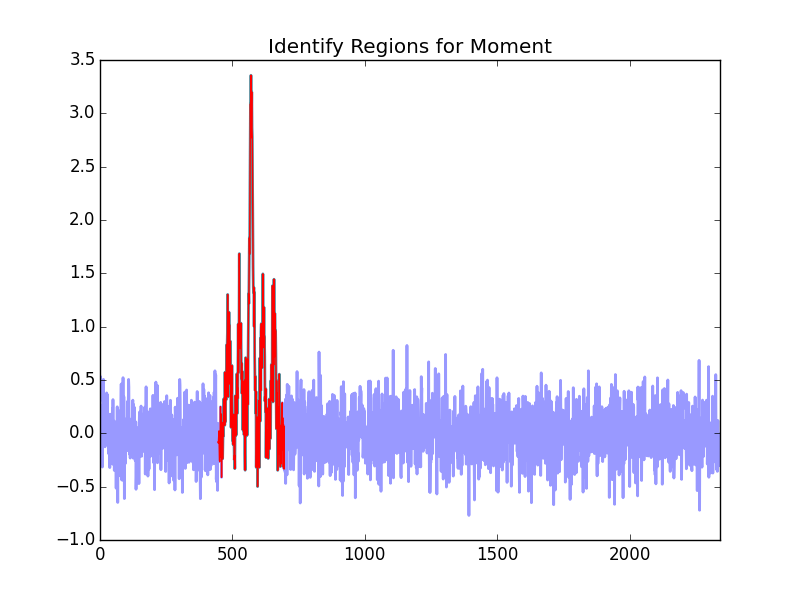
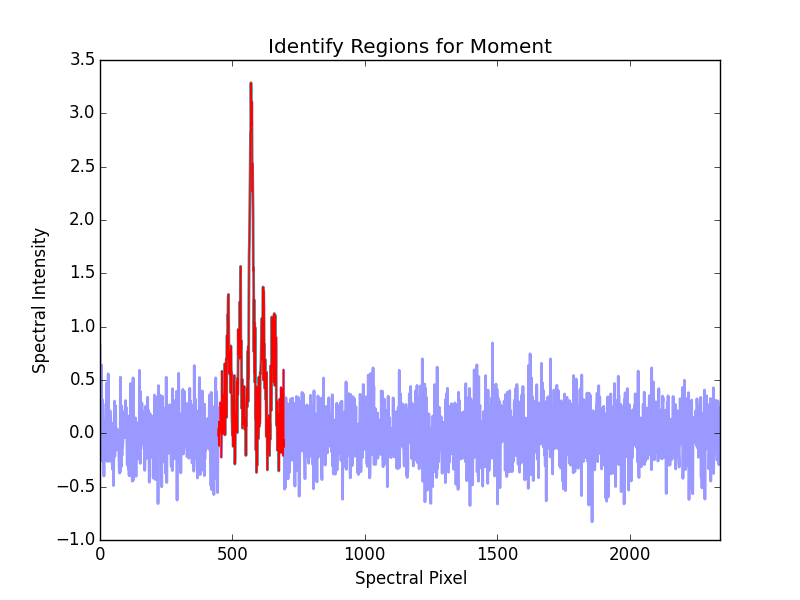
Update README with new check-plots

diff --git a/rampsclean/synthetic_spectrum.py b/rampsclean/synthetic_spectrum.py
@@ -73,6 +73,8 @@ class SyntheticSpectrum:
             plt.figure()
             plt.plot(total,color="blue",alpha=0.5,)
             plt.xlim(0,len(total))
+            plt.ylabel("Spectral Intensity")
+            plt.xlabel("Spectral Pixel")
             plt.title("Total Synthetic")
             plt.savefig(kwargs["outdir"]+"/total_synthetic.png")
         return(self.total_spectrum)

diff --git a/README.md b/README.md
@@ -11,9 +11,15 @@ Here is a synthetic spectrum simulating an NH3 (1-1) line profile as seen by RAM
 
 <img src="example_graphics/total_synthetic.png?raw=True" alt="Synthetic" width ="300"/>
 
-After median filtering and downsampling to remove the spikes, we mask out the regions where 
-there is signal by identifying where the local-standard-deviation is much higher than typical
-and fit a smooth baseline to the rest of the spectrum. In this case we are using a spline fit.
+After median filtering and downsampling to remove the spikes, we identify portions of 
+the spectrum where the local-standard-deviation is much higher than typical. This approach
+works much better than identifying signal based on the intensity/strength of the signal in 
+the case where the amplitude of the baseline is large (at least in parts of the spectrum).
+
+<img src="example_graphics/local-stddev.png?raw=True" alt="Synthetic" width ="300"/>
+
+We mask out the regions where we have identified signal and fit a smooth baseline to the r
+est of the spectrum. In this case we are using a spline fit.
 
 <img src="example_graphics/baseline-fit.png?raw=True" alt="Synthetic" width ="300"/>
 
